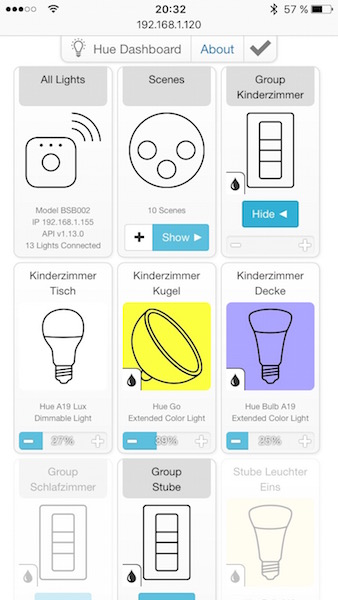
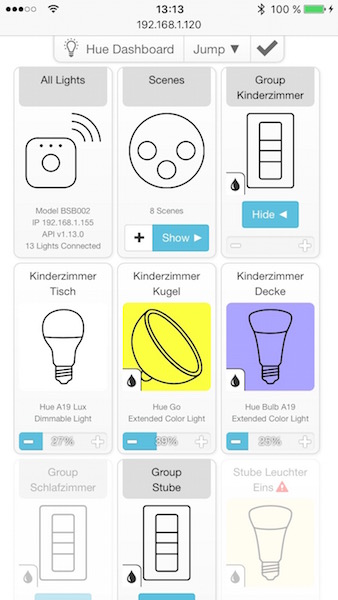
Added navigation dropdown menu to title bar

diff --git a/static/dashboard.html b/static/dashboard.html
@@ -113,16 +113,50 @@
         left: 0px;
         right: 0px;
         margin: auto;
-        z-index: 10;
+        z-index: 11;
         padding: 5px;
         height: 30px;
-        width: 240px;
+        width: 256px;
         border-style: solid;
         border-width: 0px 1px 1px 1px;
         border-color: #ddd;
         border-radius: 0px 0px 8px 8px;
         line-height: 19px;
         color: #666;
+        -webkit-touch-callout: none;
+        -webkit-user-select: none;
+        -khtml-user-select: none;
+        -moz-user-select: none;
+        -ms-user-select: none;
+        user-select: none;
+    }
+    .title-bar-nav-dropdown
+    {
+        background-image: linear-gradient(to bottom, #fff 0%, #f8f8f8 100%);
+        box-shadow: 0px 0px 2px rgba(0, 0, 0, .2);
+        top: 30px;
+        position: fixed;
+        left: 0px;
+        right: 0px;
+        width: 165px;
+        margin: auto;
+        z-index: 10;
+        position: fixed;
+        display: none;
+        padding: 5px;
+        border-style: solid;
+        border-width: 0px 1px 1px 1px;
+        border-color: #ddd;
+        border-radius: 0px 0px 8px 8px;
+        color: #666;
+        text-align: center;
+        line-height: 185%;
+    }
+    .title-bar-nav-dropdown hr
+    {
+        margin: 5px;
+        padding: 0px;
+        line-height: 100%;
     }
     .title-bar .icon
     {
@@ -131,7 +165,7 @@
         padding-right: 1px;
         margin-top: -2px;
         float: left;
-        opacity: 0.5;
+        opacity: 0.57;
     }
     .title-bar .title
     {
@@ -139,12 +173,6 @@
         padding-right: 5px;
         float: left;
         cursor: pointer;
-        -webkit-touch-callout: none;
-        -webkit-user-select: none;
-        -khtml-user-select: none;
-        -moz-user-select: none;
-        -ms-user-select: none;
-        user-select: none;
     }
     .title-bar .separator
     {
@@ -162,13 +190,21 @@
         float: left;
         margin-top: -3px;
         margin-left: 1px;
-        opacity: 0.5;
+        opacity: 0.57;
     }
-    .title-bar a
+    .title-bar .nav-link
     {
         padding-left: 5px;
         padding-right: 5px;
+        cursor: pointer;
         float: left;
+    }
+    .title-bar-nav-dropdown .nav-link
+    {
+        cursor: pointer;
+        left: 0px;
+        right: 0px;
+        margin: auto;
     }
     .tile-display
     {
@@ -453,7 +489,7 @@
     <img src="static/favicon.png" class="icon"/>
     <span class="title" onclick="window.scrollTo(0, 0);">Hue Dashboard</span>
     <div class="separator"></div>
-    <a href="https://www.github.com/blitzcode/hue-dashboard">About</a>
+    <span class="nav-link" onclick="$('.title-bar-nav-dropdown').slideToggle(100)">Jump ▼</span>
     <div class="separator"></div>
     <img src="static/spinner.gif" class="image" id="navbar-spinner" />
   </div>

diff --git a/README.md b/README.md
@@ -64,6 +64,10 @@ Another view on a Mac desktop browser:
 
 ![Web Interface](https://raw.github.com/blitzcode/hue-dashboard/master/doc-img/web-interface-admin.png)
 
+- Quick navigation menu to reduce scrolling on devices with smaller screens
+
+![Web Interface](https://raw.github.com/blitzcode/hue-dashboard/master/doc-img/web-interface-navigation.png)
+
 ### Implementation
 
 Hue Dashboard is implemented in [Haskell](http://www.haskell.org), talking to the [Hue bridge](http://www2.meethue.com/en-us/productdetail/philips-hue-bridge) through its [REST API](http://www.developers.meethue.com/) using [http-conduit](https://www.stackage.org/package/http-conduit). The web interface is done using [threepenny-gui](https://wiki.haskell.org/Threepenny-gui) and [blaze-html](https://hackage.haskell.org/package/blaze-html). [Bootstrap](http://getbootstrap.com/) and [jQuery](https://jquery.com/) are used client-side.
